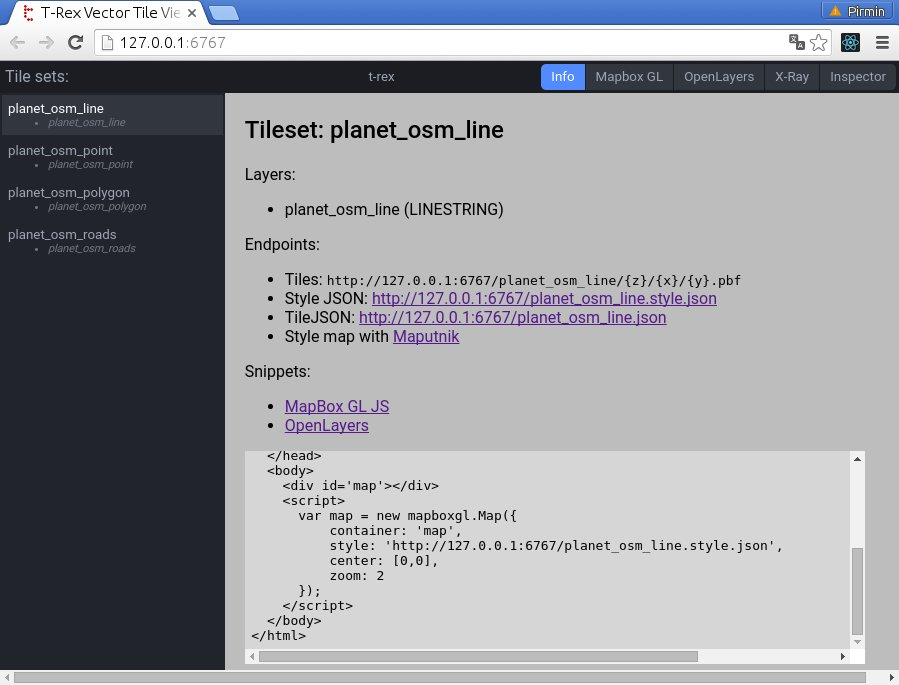
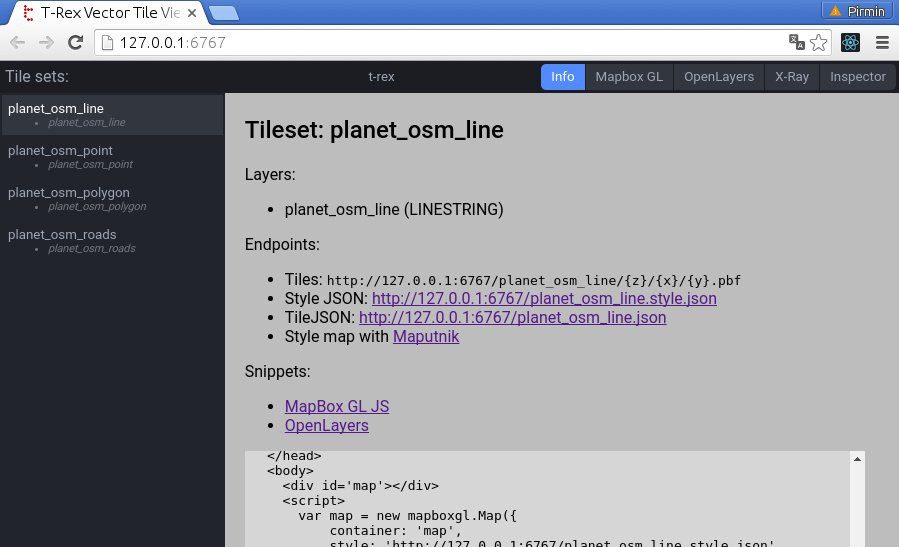
Smaller base font

Changed region(s): [[0.0, 0.0, 1.0, 1.0], [0.0, 0.3419, 0.1557, 0.4662]]

diff --git a/static/site.css b/static/site.css
@@ -34,8 +34,9 @@
 }
 
 .ui.vertical.stripe p {
-  font-size: 1.33em;
+  font-size: 1.2em;
 }
+
 .stripe.segment .grid .column {
   padding-top: 3em;
   padding-bottom: 3em;
@@ -47,14 +48,6 @@
 
 .secondary.pointing.menu .toc.item {
   display: none;
-}
-
-p {
-  font-size: 1.1em;
-}
-
-a {
-  font-size: 1.1em;
 }
 
 pre {
@@ -79,7 +72,7 @@ pre {
 }
 
 #toc > ul > li {
-  font-size: 1.2em;
+  font-size: 1.1em;
   line-height: 2em;
 }
 
